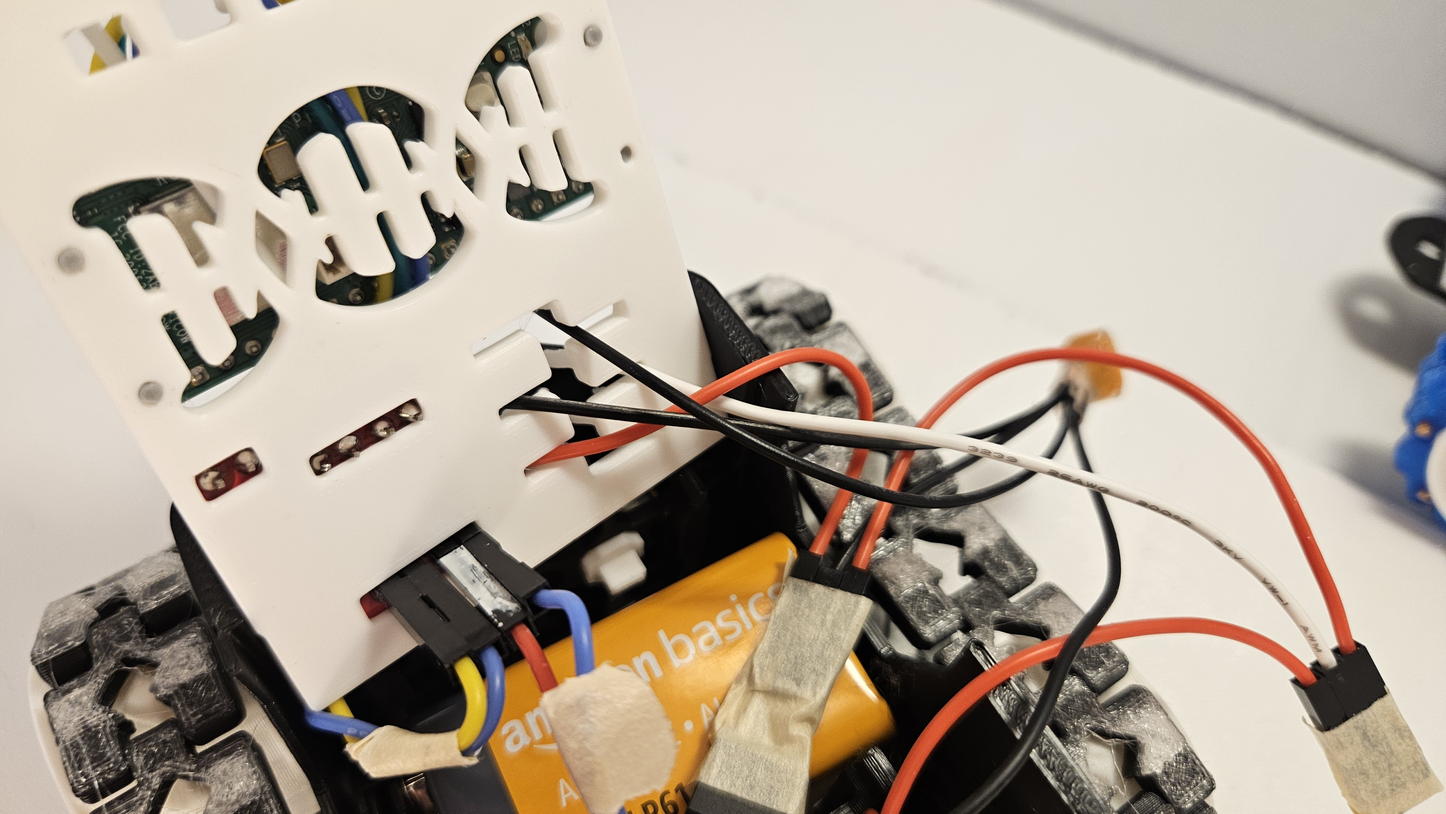
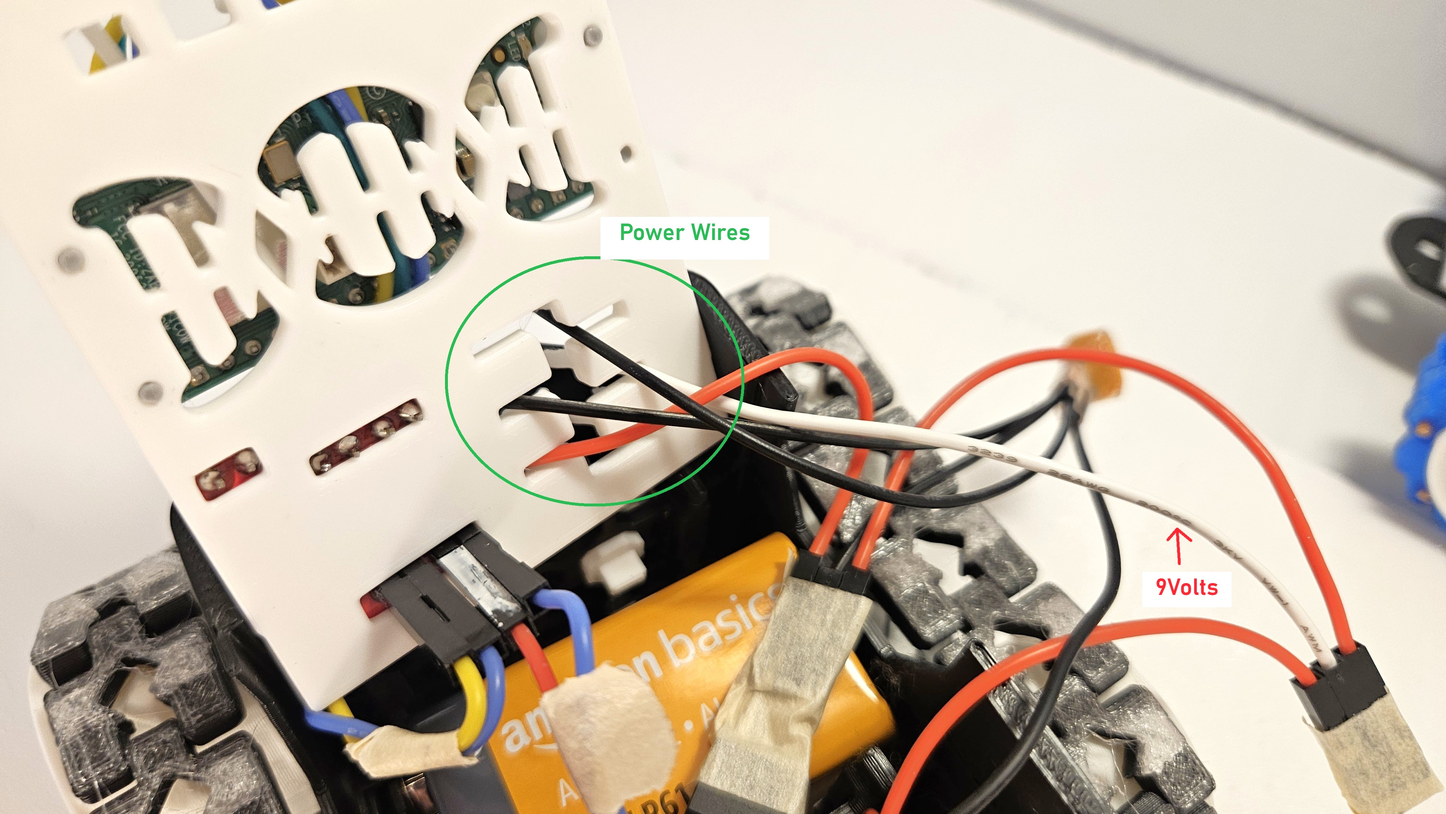
updates started to plate_chassis.md for v3

diff --git a/lessons/assembly/plate_chassis.md b/lessons/assembly/plate_chassis.md
@@ -6,24 +6,36 @@
 
 In this step, we will take the Pico plate with the Pico and motor controller and attach it to the chassis.  
 
-Before we can put the plate down on the chassis, we need to connect the motors to the motor controllers pins that stick out below the plate.  Position the chassis so that the hitch is facing towards you and the motor controller is at the opposite side of the chassis.
+### Connecting the Motors
+
+Before we can put the plate down on the chassis, we need to connect the motors to the motor controllers pins that stick out below the plate.  Position the chassis so that the hitch is facing towards you which means the power switch also is closest to you.  Then position the pico plate with the motor controller at the opposite side of the chassis.
 See below picture for proper orientation.   
-Connect the front motor to the `motor A` pins on the motor controller. The ``motor A`` pins are the first two pins on the left in the picture below.  Connect the rear motor to the `motor B` pins.  Run the wires for the rear motor over the battery. You don't have to worry about the color of the wire and which pin it goes to.  As long as the front motor wires are connected to the `motor A` pins and the rear motor is connected to `motor B` pins, then which wire (red vs black) connects to which pin doesn't matter.   The reason the color doesn't matter is because the motor controller can send power in both directions to a motor and therefore we can control in the code which way to send the power to get the motors to spin in the direction we want.
 
-<img alt="Pico Plate bottom view" height="500" src="../images/assembly/pico_plate_on_chassis_bottom.jpg"/>
+<img alt="Pico Plate bottom view" height="500" src="../images/assembly/v3/PicoPlateInstallChassis.jpg"/>
 
-Close up:
+Now you will connect the motor wires to the motor controller pins that stick down through the pico plate. Connect the front motor to the `motor A` pins on the motor controller. The ``motor A`` pins are the first two pins on the left in the picture above. 
 
-<img alt="Pico Plate bottom view closeup" src="../images/assembly/pico_plate_on_chassis_bottom_closeup.jpg" width="500"/>
+<img alt="Pico Plate Motor A pins connected" width="500" src="../images/assembly/v3/PicoPlateMotor.jpg"/>
+
+ Connect the rear motor to the `motor B` pins.  Run the wires for the rear motor over the battery. You don't have to worry about the color of the wire and which pin it goes to.  As long as the front motor wires are connected to the `motor A` pins and the rear motor is connected to `motor B` pins, then which wire connects to which pin doesn't matter.   The reason it doesn't matter is because the motor controller can send power in both directions to a motor and therefore we can control in the code which way to send the power to get the motors to spin in the direction we want.
+
+<img alt="Pico Plate Motor B pins connected" src="../images/assembly/v3/PicoPlateMotor2.jpg" width="500"/>
+
+### Running the Power Wires
+
+Now we need to route all the unconnected wires from the power up through the Pico Plate.  So, you should have 2 black ground wires and 2 positive wires(one red and one white).  Be sure to know which wire is coming straight from the 3 way connector and which is coming from the Voltage Regulator.  The one coming from the 3 way connector is carrying 9volts and could damage the Pico if we accidentally plugged it in there.  In our picture the white wire is carrying the 9volts and will go to the motor controller eventually.  For now, just run all 4 wires through the slots in the bottom right of the Pico Plate. Their position in the slots doesn't matter, just have them all poke through to the other side of the Pico plate.
+
+<img alt="Power Cables Through Pico Plate" src="../images/assembly/v3/PowerCablesPicoPlate.jpg" width="500"/>
+
+With the 4 power wires through the Pico plate, you can set plate on top of the chassis. Don't worry about snapping the Pico Plate in place. At this point, just let the Pico Plate rest on top of the chassis.
+
+<img alt="Power Cables Through Pico Plate Top View" src="../images/assembly/v3/PowerCablesPicoPlate2.jpg" width="500"/>
 
 
-Run the two ends of the red Y power cable from the voltage regulator up through the Pico plate and through the vertical slot to the right of the motor controller:
+Now we will try to push the Pico Plate into is final recessed position on the chassis.  To do this, start by positioning the Pico Plate inside the top of the chassis.
 
-<img alt="Positive Power Cable Through Pico Plate" src="../images/assembly/pico_plate_bottom_power_cable.jpg" width="500"/>
+<img alt="Pico Plate On Chassis" src="../images/assembly/v3/PowerCablesPicoPlate3.jpg" width="500"/>
 
-Run the ground (black) wire from the battery connector up through the same vertical slot in the plate:
-
-<img alt="Ground Cable Through Pico Plate" src="../images/assembly/pico_plate_bottom_power_cable_2.jpg" width="500"/>
 
 Carefully push the plate down onto the chassis.  Make sure that the wires aren't disconnected or pinched between the plate and chassis.  The plate should sit flush with the cutout in the front and rear of the chassis.
 
